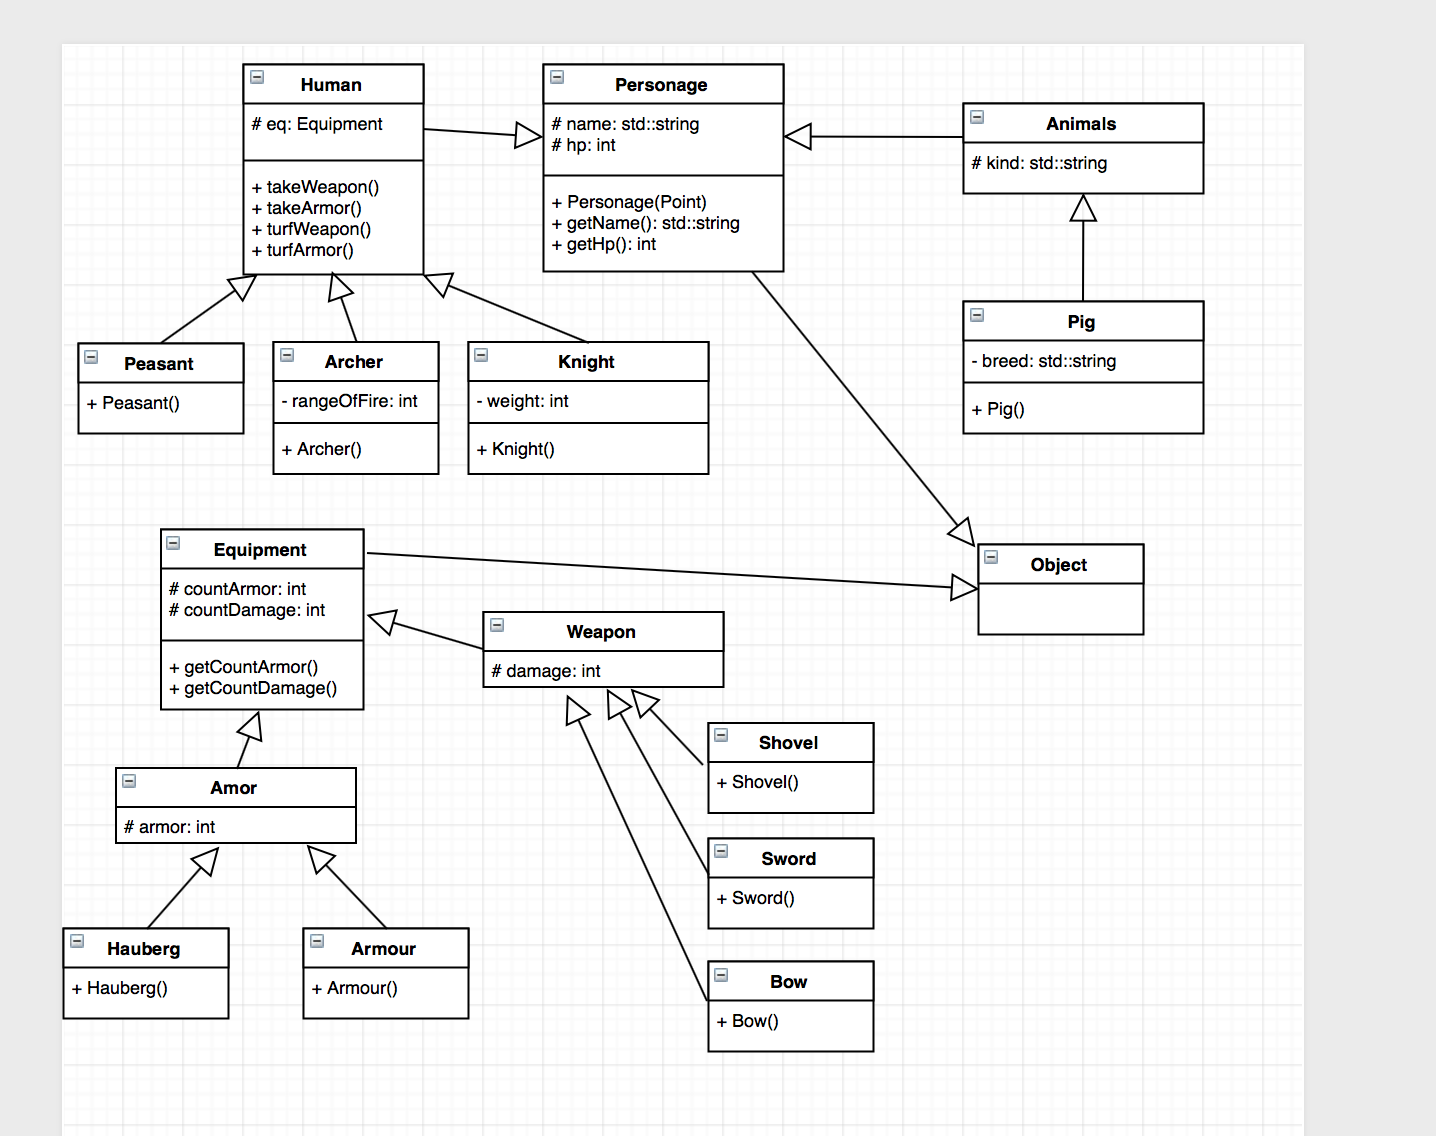
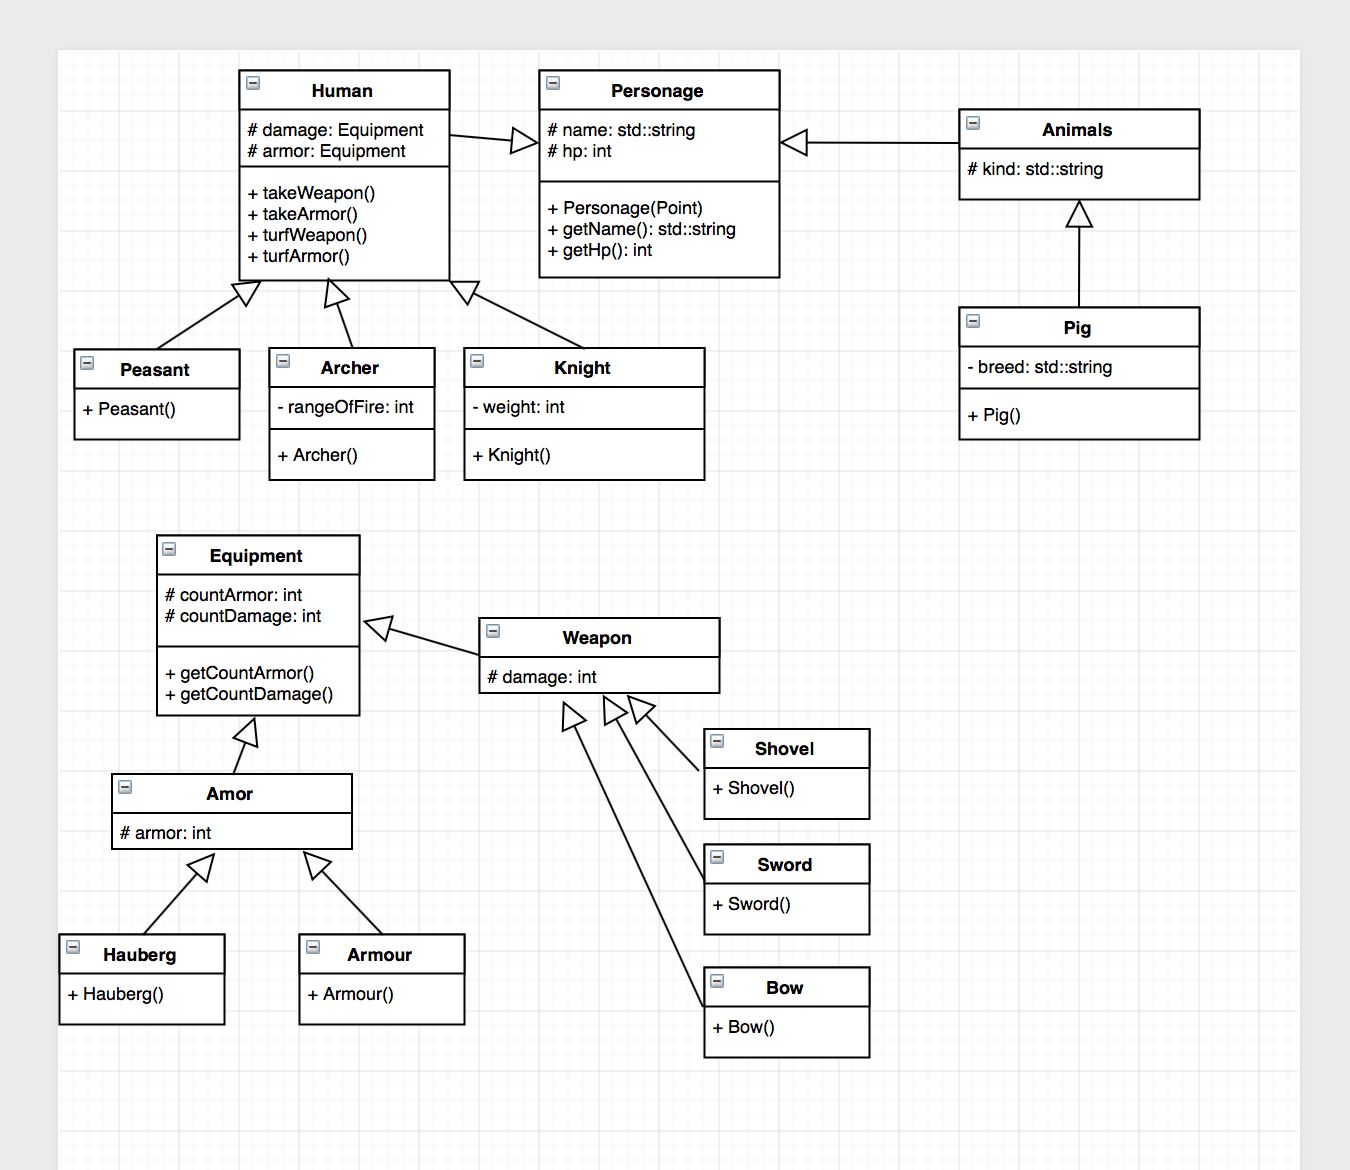
fixed classes

diff --git a/homework/Pavlov_V/03/Personages.h b/homework/Pavlov_V/03/Personages.h
@@ -1,16 +1,11 @@
 #include <iostream>
 
-
-class Object {
-    
-};
-
-class Personage: public Object {
+class Personage {
 protected:
     std::string name;
     int hp;
 public:
-    Personage(std::string, int);
+    Personage(const std::string, int);
     Personage(): name("user"), hp(100) { };
     std::string getName();
     int getHp();
@@ -28,7 +23,7 @@ public:
     Pig(): breed("") { };
 };
 
-class Equipment: public Object {
+class Equipment {
 protected:
     int countArmor;
     int countDamage;
@@ -40,7 +35,8 @@ public:
 
 class Human: public Personage {
 protected:
-    Equipment eq;
+    Equipment armor;
+    Equipment damage;
 public:
     void takeWeapon();
     void turfWeapon();
@@ -50,7 +46,7 @@ public:
 
 class Peasant: public Human {
 public:
-    Peasant(std::string);
+    Peasant(const std::string);
 };
 
 class Archer: public Human {
